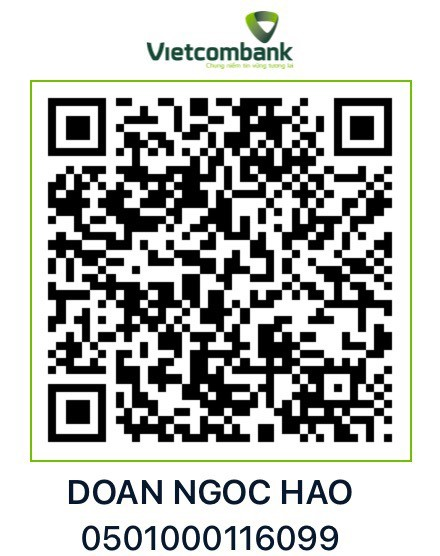
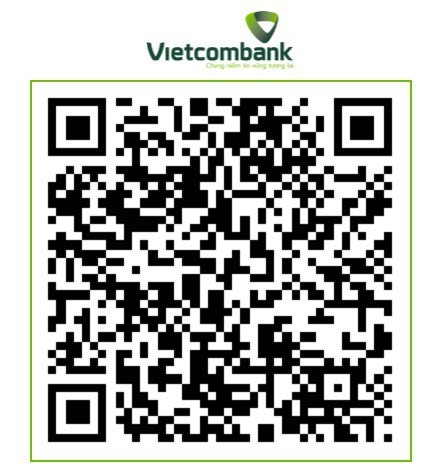
Your commit message

diff --git a/src/components/Bridegroom.js b/src/components/Bridegroom.js
@@ -21,27 +21,6 @@ function Bridegroom () {
                     Nguyễn Thị Ngọc Quý<i className='ti-heart'></i>
                   </h6>{' '}
                   <span>The Bride</span>
-                  {/* <p>
-                    Olivia fringilla dui at elit finibus viverra nec a lacus
-                    seda themo the miss druane semper sollicitudin non the
-                    fermen.
-                  </p> */}
-                  <div className='social'>
-                    <div className='full-width'>
-                      <a href='#0' className='icon'>
-                        {' '}
-                        <i className='ti-facebook'></i>{' '}
-                      </a>
-                      <a href='#0' className='icon'>
-                        {' '}
-                        <i className='ti-twitter'></i>{' '}
-                      </a>
-                      <a href='#0' className='icon'>
-                        {' '}
-                        <i className='ti-instagram'></i>{' '}
-                      </a>
-                    </div>
-                  </div>
                 </div>
               </div>
             </div>
@@ -60,29 +39,7 @@ function Bridegroom () {
                   <h6>
                     Đoàn Ngọc Hảo <i className='ti-heart'></i>
                   </h6>{' '}
-                  <br></br>
                   <span>The Groom</span>
-                  {/* <p>
-                    Enrico fringilla dui at elit finibus viverra nec a lacus
-                    seda themo the miss druane semper sollicitudin non the
-                    fermen.
-                  </p> */}
-                  <div className='social'>
-                    <div className='full-width'>
-                      <a href='#0' className='icon'>
-                        {' '}
-                        <i className='ti-facebook'></i>{' '}
-                      </a>
-                      <a href='#0' className='icon'>
-                        {' '}
-                        <i className='ti-twitter'></i>{' '}
-                      </a>
-                      <a href='#0' className='icon'>
-                        {' '}
-                        <i className='ti-instagram'></i>{' '}
-                      </a>
-                    </div>
-                  </div>
                 </div>
               </div>
             </div>
@@ -93,9 +50,13 @@ function Bridegroom () {
             className='col-md-12 text-center animate-box'
             data-animate-effect='fadeInUp'
           >
-            <h3 className='oliven-couple-title'>Are getting married!</h3>
+            <h3 className='oliven-couple-title'>Vu Quy</h3>
             <h4 className='oliven-couple-subtitle'>
-              January 14 ,2024 — Nhà Hàng Tiệc Cưới Ngọc Trâm - 948 Nguyễn Văn Quá, Đông Hưng Thuận, Q.12, Tp.HCM
+              January 13 - 9:30am ,2024 — Tổ 2, ấp Cẩm Sơn, xã Xuân Mỹ, huyện Cẩm Mỹ, tỉnh Đồng Nai
+            </h4>
+            <h3 className='oliven-couple-title'>Tân Hôn</h3>
+            <h4 className='oliven-couple-subtitle'>
+              January 14 - 9:30am ,2024 — Nhà Hàng Tiệc Cưới Ngọc Trâm - 948 Nguyễn Văn Quá, phường Đông Hưng Thuận, Q.12, Tp.HCM
             </h4>
           </div>
         </div>

diff --git a/src/components/Where.js b/src/components/Where.js
@@ -2,6 +2,7 @@ import React from 'react'
 import where1 from '../assets/images/where-1.jpg'
 import where2 from '../assets/images/where-2.jpg'
 import where3 from '../assets/images/where-3.jpg'
+import where4 from '../assets/images/where-4.jpg'
 function Where () {
   return (
     <div id='whenwhere' className='whenwhere section-padding bg-pink'>
@@ -9,7 +10,7 @@ function Where () {
         <div className='row'>
           <div className='col-md-12 mb-30'>
             {' '}
-            <span className='oliven-title-meta'>Questions</span>
+            <span className='oliven-title-meta'>The Bride's family</span>
             <h2 className='oliven-title'>When & Where</h2>{' '}
           </div>
         </div>
@@ -22,7 +23,7 @@ function Where () {
             <div className='content'>
               <h5>Wedding Ceremony</h5>
               <p>
-                <i className='ti-location-pin'></i> 140/21B ấp 3, Đông Thạnh, Hóc Môn, Hồ Chí Minh, Việt Nam
+                <i className='ti-location-pin'></i> Tư Gia - Tổ 2, ấp Cẩm Sơn, xã Xuân Mỹ, huyện Cẩm Mỹ, tỉnh Đồng Nai
               </p>
               <p>
                 <i className='ti-time'></i> <span>9:30am </span>
@@ -37,7 +38,47 @@ function Where () {
             <div className='content'>
               <h5>Weddding Party</h5>
               <p>
-                <i className='ti-location-pin'></i> Nhà Hàng Tiệc Cưới Ngọc Trâm - 948 Nguyễn Văn Quá, Đông Hưng Thuận, Q.12, Tp.HCM
+                <i className='ti-location-pin'></i> Tư Gia - Tổ 2, ấp Cẩm Sơn, xã Xuân Mỹ, huyện Cẩm Mỹ, tỉnh Đồng Nai
+              </p>
+              <p>
+                <i className='ti-time'></i> <span>11:00am</span>
+              </p>
+            </div>
+          </div>
+          
+        </div>
+        <div className='row'>
+          <div className='col-md-12 mb-30'>
+            {' '}
+            <span className='oliven-title-meta'>The Groom's family</span>
+            <h2 className='oliven-title'>When & Where</h2>{' '}
+          </div>
+        </div>
+        <div className='row'>
+          <div className='item col-12 col-md-6'>
+            <div className='whenwhere-img'>
+              {' '}
+              <img src={where3} alt='' />
+            </div>
+            <div className='content'>
+              <h5>Wedding Ceremony</h5>
+              <p>
+                <i className='ti-location-pin'></i> Tư Gia - 140/21B ấp 3, Đông Thạnh, Hóc Môn, Hồ Chí Minh, Việt Nam
+              </p>
+              <p>
+                <i className='ti-time'></i> <span>9:30am </span>
+              </p>
+            </div>
+          </div>
+          <div className='item col-12 col-md-6'>
+            <div className='whenwhere-img'>
+              {' '}
+              <img src={where4} alt='' />
+            </div>
+            <div className='content'>
+              <h5>Weddding Party</h5>
+              <p>
+                <i className='ti-location-pin'></i> Nhà Hàng Tiệc Cưới Ngọc Trâm - 948 Nguyễn Văn Quá, Q.12, Tp.HCM
               </p>
               <p>
                 <i className='ti-time'></i> <span>11:00am</span>

diff --git a/src/components/Footer.js b/src/components/Footer.js
@@ -4,6 +4,8 @@ import vcb from '../assets/images/VCB.jpg'
 import momo from '../assets/images/Momo.jpg'
 import { useState } from "react";
 import Modal from 'react-modal';
+import Popup from 'reactjs-popup';
+import 'reactjs-popup/dist/index.css';
 
 const customStyles = {
   content: {
@@ -21,30 +23,33 @@ const customStyles = {
 
 
 function Footer() {
-  const [QrShow, setQrShow] = useState(false)
-  const handleTextClick = () => {
-    setQrShow(true);
-  };
+  // const [QrShow, setQrShow] = useState(false)
+  // const handleTextClick = () => {
+  //   setQrShow(true);
+  // };
 
-  const closePopup = () => {
-    setQrShow(false);
-  };
+  // const closePopup = () => {
+  //   setQrShow(false);
+  // };
 
-  const Popup = ({ isOpen, onClose }) => {
-    return (
-      <Modal
-        style={customStyles}
-        isOpen={isOpen}
-        onRequestClose={onClose}
-        contentLabel="Popup"
-      >
-        <img src={momo} alt='' />
-        <div><p>0908321107 Doan Ngoc Hao</p></div>
-        <img src={vcb} alt='' />
-        <div><p>0501000116099 VCB-Doan Ngoc Hao</p></div>
-      </Modal>
-    );
-  };
+  // const Popup = ({ isOpen, onClose }) => {
+  //   const handleOverlayClick = () => {
+  //     onClose();
+  //   };
+  //   return (
+  //     <Modal
+  //       style={customStyles}
+  //       isOpen={isOpen}
+  //       onRequestClose={onClose}
+  //       contentLabel="Popup"
+  //       overlayClassName="popup-overlay"
+  //     >
+  //       <div className="popup-content" onClick={handleOverlayClick}>
+
+  //       </div>
+  //     </Modal>
+  //   );
+  // };
 
   return (
     <div className='footer2'>
@@ -52,23 +57,37 @@ function Footer() {
         <div className='row'>
           <div className='col-md-12 text-center'>
             <h2>
-              <a href='#'>
+              <a>
                 <img src={Logo} alt='' />
-                <div onClick={handleTextClick}>
+                {/* <div onClick={handleTextClick}> */}
                 <span >
-                  Ngọc Quý <small>&</small> Ngọc Hảo
+                Ngọc Hảo <small>&</small> Ngọc Qúy
                 </span>
-                <p>Click here to see QR code</p>
-                <Popup isOpen={QrShow} onClose={closePopup} />
-                </div>
+                {/* <Popup isOpen={QrShow} onClose={closePopup} /> */}
+                {/* </div> */}
               </a>
             </h2>
             <p className='copyright'>January 14, 2024 – Hóc Môn, Hồ Chí Minh</p>
+            <div>
+              <Popup trigger=
+                {<button>Open QR code </button>}  position="center"
+              >
+                
+                <div>
+                  <img src={momo} alt='' />
+                  <div><p>0908321107 Doan Ngoc Hao</p></div>
+                  <img src={vcb} alt='' />
+                  <div><p>0501000116099 VCB-Doan Ngoc Hao</p></div>
+                </div>
+              </Popup>
+            </div>
           </div>
         </div>
       </div>
     </div>
   )
 }
+
+
 
 export default Footer

diff --git a/src/components/Header.js b/src/components/Header.js
@@ -11,7 +11,7 @@ function Header () {
         <div className='row'>
           <div className='col-md-12 text-center caption'>
             <h1 className='animate-box' data-animate-effect='fadeInUp'>
-              Ngọc Quý & Ngọc Hảo
+              Ngọc Hảo & Ngọc Quý
             </h1>
             <h5 className='animate-box' data-animate-effect='fadeInUp'>
               14 January, 2024 – Hồ Chí Minh

diff --git a/src/components/Seeyou.js b/src/components/Seeyou.js
@@ -13,7 +13,7 @@ function Seeyou () {
               <i className='ti-heart'></i>
             </span>
             <h4>Looking forward to see you!</h4>
-            <h3>14.01.2024</h3>
+            <h3>13.01.2024 & 14.01.2024</h3> 
           </div>
         </div>
       </div>

diff --git a/src/components/Sidebar.js b/src/components/Sidebar.js
@@ -60,7 +60,7 @@ function Sidebar () {
           {' '}
           <span className='separator'></span>
           <p>
-            Ngọc Quý & Ngọc Hảo
+            Ngọc Hảo & Ngọc Quý
             <br />
             14 January 2024, Hồ Chí Minh
           </p>
